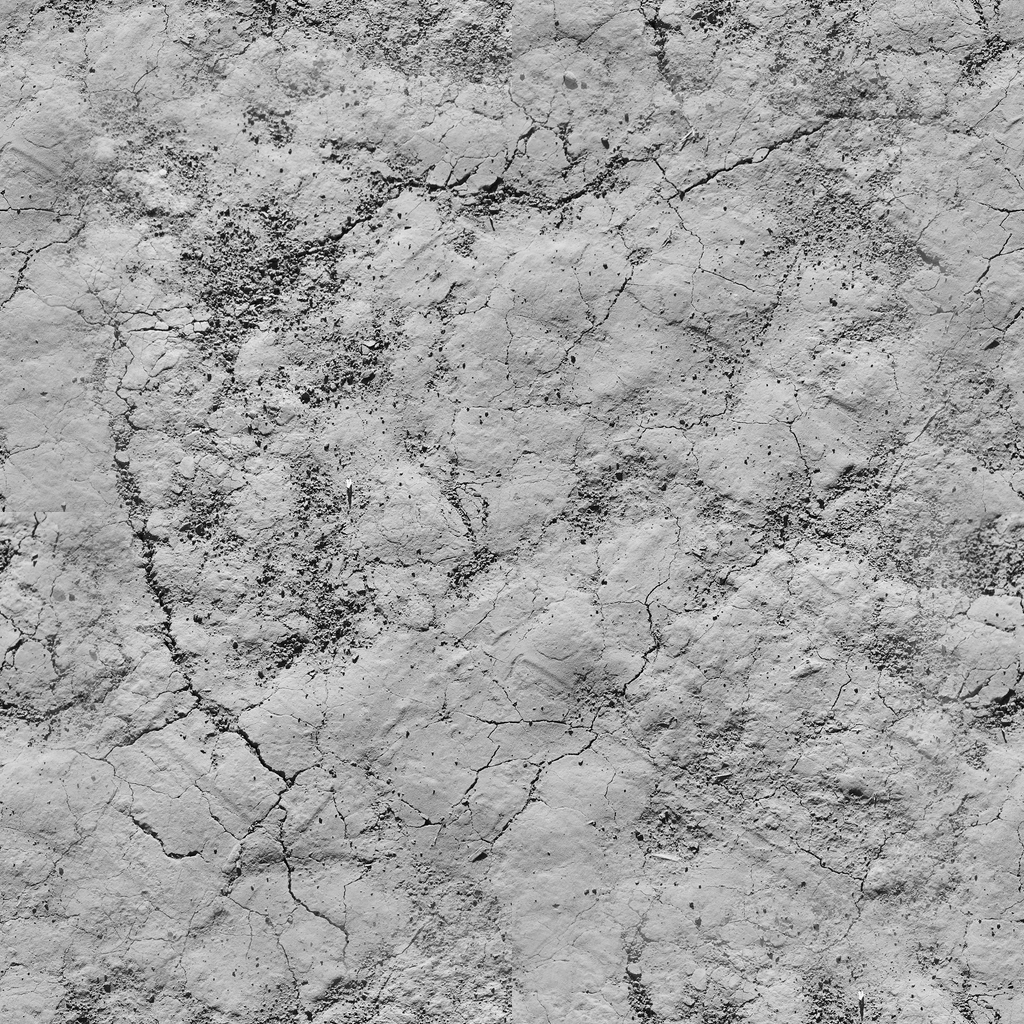
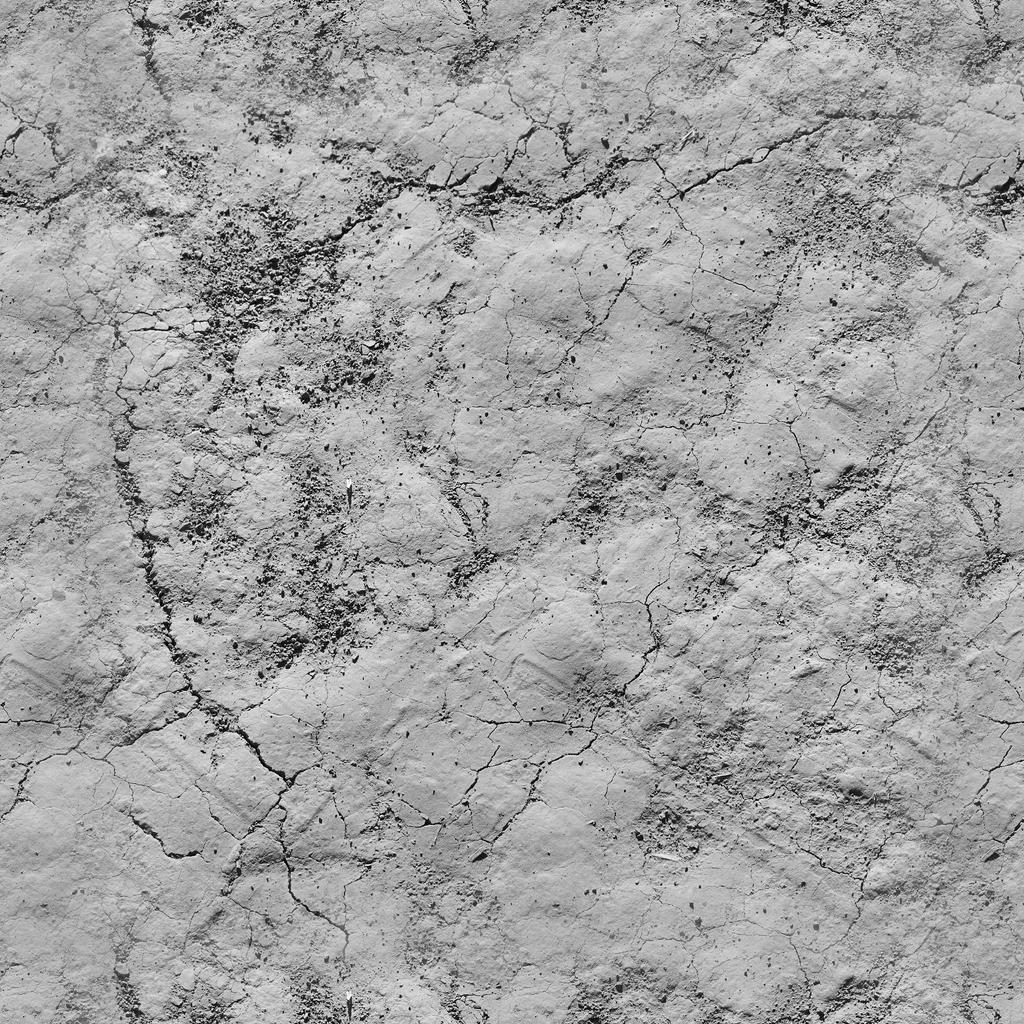
fix(look): bare earth review round 1, the cracks masked by the bake's colour, margins past the tile, a seamless tile

Changed region(s): [[0.0, 0.0, 1.0, 1.0]]

diff --git a/src/look/main.ts b/src/look/main.ts
@@ -533,6 +533,9 @@ if (params.has('bench')) {
   // ?bench=macro: the macro colour's arms whose shaders differ instead (with the detail layer)
   // ?bench=earth: the bare earth's surface up close off and on (earthOn, docs/plans/active/bare-earth.md)
   // ?bench=dof: the gameplay depth of field off and on (decision 0024)
+  // (each material set as it stands, no binder left behind: the texture's load sets 1 once, before the bench's warm-up
+  // on a local page)
+  const earthArm = (on: number) => () => { for (const m of mats.all) m.setFloat('uEarthOn', on) }
   const dofArm = (on: number) => () => { setDetail([]); if (S.dof !== on) { S.dof = on; post.build(); syncButtons() } }
   // ?trees=cards&bench=trees: the crowns' two arms, cards and the pack's (docs/plans/done/l7a-canopy-cards.md),
   // for the frame's cost only (read the frame interval): the shadow map is baked once, with the cards, so the pack arm keeps the cards' shadows
@@ -554,7 +557,7 @@ if (params.has('bench')) {
   // in every arm, so 'none' measures the materials' share of the combed meadow, not all of it
   const grassArm = (on: boolean, off: string[] = []) => () => { for (const m of mats.all) { m.setDefine('#define GRASS_FLOW', on); for (const k of ['STROKES', 'HUE', 'DENSE', 'BIG', 'LEAN']) m.setDefine(`#define GRASS_NO_${k}`, off.includes(k) || grassOff.includes(k.toLowerCase())) } }
   const arms = params.get('bench') === 'grass' && grassParam === 'flow' ? [{ name: 'flow', apply: grassArm(true) }, { name: 'none', apply: grassArm(false) }]
-    : params.get('bench') === 'grassparts' && grassParam === 'flow' ? [{ name: 'flow', apply: grassArm(true) }, { name: 'nostrokes', apply: grassArm(true, ['STROKES']) }, { name: 'nolean', apply: grassArm(true, ['LEAN']) }, { name: 'noclose', apply: grassArm(true, ['DENSE', 'BIG']) }, { name: 'nohue', apply: grassArm(true, ['HUE']) }, { name: 'alloff', apply: grassArm(true, ['STROKES', 'HUE', 'DENSE', 'BIG', 'LEAN']) }, { name: 'none', apply: grassArm(false) }] : params.get('bench') === 'meadow' && meadow ? [{ name: 'meadow', apply: () => meadow.setOn(true) }, { name: 'none', apply: () => meadow.setOn(false) }] : params.get('bench') === 'volume' ? [{ name: 'volume', apply: () => volume(true) }, { name: 'l7a', apply: () => volume(false) }] : params.get('bench') === 'trees' && show ? [{ name: 'cards', apply: () => show(true) }, { name: 'pack', apply: () => show(false) }] : params.get('bench') === 'macro' ? SHADER_ARMS.map(a => ({ name: a, apply: () => { setDetail([]); return macro.setArm(a) } })) : params.get('bench') === 'earth' ? [{ name: 'earth', apply: () => mats.bindAll(m => m.setFloat('uEarthOn', 1)) }, { name: 'noearth', apply: () => mats.bindAll(m => m.setFloat('uEarthOn', 0)) }]: params.get('bench') === 'dof' ? [{ name: 'nodof', apply: dofArm(0) }, { name: 'dof', apply: dofArm(1) }] : [{ name: 'l2', apply: () => setDetail([]) }, { name: 'l0', apply: () => setDetail(['DETAIL_L0']) }]
+    : params.get('bench') === 'grassparts' && grassParam === 'flow' ? [{ name: 'flow', apply: grassArm(true) }, { name: 'nostrokes', apply: grassArm(true, ['STROKES']) }, { name: 'nolean', apply: grassArm(true, ['LEAN']) }, { name: 'noclose', apply: grassArm(true, ['DENSE', 'BIG']) }, { name: 'nohue', apply: grassArm(true, ['HUE']) }, { name: 'alloff', apply: grassArm(true, ['STROKES', 'HUE', 'DENSE', 'BIG', 'LEAN']) }, { name: 'none', apply: grassArm(false) }] : params.get('bench') === 'meadow' && meadow ? [{ name: 'meadow', apply: () => meadow.setOn(true) }, { name: 'none', apply: () => meadow.setOn(false) }] : params.get('bench') === 'volume' ? [{ name: 'volume', apply: () => volume(true) }, { name: 'l7a', apply: () => volume(false) }] : params.get('bench') === 'trees' && show ? [{ name: 'cards', apply: () => show(true) }, { name: 'pack', apply: () => show(false) }] : params.get('bench') === 'macro' ? SHADER_ARMS.map(a => ({ name: a, apply: () => { setDetail([]); return macro.setArm(a) } })) : params.get('bench') === 'earth' ? [{ name: 'earth', apply: earthArm(1) }, { name: 'noearth', apply: earthArm(0) }]: params.get('bench') === 'dof' ? [{ name: 'nodof', apply: dofArm(0) }, { name: 'dof', apply: dofArm(1) }] : [{ name: 'l2', apply: () => setDetail([]) }, { name: 'l0', apply: () => setDetail(['DETAIL_L0']) }]
   // ?benchat=<x>,<z>: the cameras orbit that point instead of the start (the forest bench: docs/plans/done/forest-bench.md)
   // inside the play area: the camera's focus is clamped to it every frame (src/look/post.ts)
   const at = params.get('benchat')?.split(',').map(p => p.trim() === '' ? NaN : Number(p))

diff --git a/tools/earth-texture.py b/tools/earth-texture.py
@@ -5,8 +5,10 @@
 #   python3 tools/earth-texture.py [photo] [out] [size]
 #
 # The central square, in grey, the photo's broad light taken off (a blur of it divided out, so the tile's repeat shows
-# no bright corner), resized to size² (1024), then made seamless: the tile mixed with itself shifted by half, the
-# shifted copy where the tile's edges would meet. Prints the tile's mean (the shader keeps the earth's colour about it).
+# no bright corner), resized to size² (1024), then made seamless one axis at a time: the tile mixed with itself shifted
+# by half along x, the shifted copy at the left and right edges (whose own seam, in its middle, falls where the tile
+# itself is kept), then the same along y on that result (a mask that is the product of both edges' ramps would keep the
+# shifted copy's seam at the middle of each edge). Prints the tile's mean (the shader keeps the earth's colour about it).
 import os
 import sys
 from PIL import Image, ImageChops, ImageFilter, ImageStat
@@ -28,13 +30,17 @@ for y in range(N):
   for x in range(N):
     pf[x, y] = max(0, min(255, round(pi[x, y] * mean / max(pb[x, y], 1))))
 
-# seamless: the half-shifted copy where the tile's edges meet, the tile itself in its middle, a smooth mask between
-shifted = ImageChops.offset(flat, N // 2, N // 2)
-mask = Image.new('L', (N, N)); pm = mask.load(); B = N // 6   # the blend's width at each edge
+# seamless, one axis at a time: the half-shifted copy at the edges, the tile in the middle, a smooth ramp between
+B = N // 6   # the blend's width at each edge
 def ramp(d): t = min(1.0, d / B); return t * t * (3 - 2 * t)
-for y in range(N):
-  for x in range(N):
-    pm[x, y] = round(255 * ramp(min(x, N - 1 - x)) * ramp(min(y, N - 1 - y)))
-tile = Image.composite(flat, shifted, mask)
+def seamless(im, axis):
+  shifted = ImageChops.offset(im, N // 2 if axis == 0 else 0, N // 2 if axis == 1 else 0)
+  mask = Image.new('L', (N, N)); pm = mask.load()
+  for y in range(N):
+    for x in range(N):
+      d = x if axis == 0 else y
+      pm[x, y] = round(255 * ramp(min(d, N - 1 - d)))
+  return Image.composite(im, shifted, mask)
+tile = seamless(seamless(flat, 0), 1)
 tile.save(out, optimize=True)
 print(f'{out}: {N}x{N}, mean {ImageStat.Stat(tile).mean[0] / 255:.3f}')

diff --git a/docs/systems/look.md b/docs/systems/look.md
@@ -170,10 +170,16 @@ The plan: `docs/plans/active/l5-macro.md`; the design: `docs/proposals/prepainte
   wandering by the grain.
 - **The earth's surface up close** (`earthOn` in `macro.glsl`, after `dirtOn`): the owner's cracked earth
   (`data/ground-earth-v1.png`, made from the local reference by `tools/earth-texture.py`: the central square in grey,
-  the photo's broad light divided out, made seamless) multiplies bare ground's value about its mean (0.631), two reads
-  at 5 and 8 m a repeat at unrelated turns; fading out from a 6 to a 25 cm footprint (past it its marks are under a
-  pixel and the bake's soil alone shows). The growth first, one read shared with the under-layer (`meadowTexel`):
-  grass returns there; then the class, unwarped. `?bench=earth` benches it off and on.
+  the photo's broad light divided out, made seamless one axis at a time) multiplies bare loam's value about its mean
+  (0.632), two reads at 5 and 8 m a repeat at unrelated turns (the turned read's gradients turned with it), fading out
+  from a 6 to a 25 cm footprint. Its mask is the macro colour itself: the bake painted the soil where the ground is
+  bare, so a pixel takes the cracks as far as it reads as soil (its red over its green by 1.10 to 1.18: the grass, the
+  wheat, the stubble and the village stay under), at no read, its edge the bake's own. So all bare loam takes it: the
+  soil, the ploughed land, the roads and the tracks (their own paint over it near the camera); the dirt's marks
+  (`dirtOn`) hand over to it up close by the same weight. The bareness in the bake reads the growth at the cover's
+  warped point (four taps a metre apart), and beyond the meadow map (the tile's last 10 m and the far ring) the
+  margins from the cover by the grass's own rule (2.5 m round), so no seam where the map ends. Bare soil on a grassy
+  class keeps that class's snow (whole: trodden, a zone's breadth of snow showed the snow's pattern repeating). `?bench=earth` benches it off and on.
 - **The season turns what is green** (`groundSeason` in `shore.glsl`, every ground colour's season): a colour takes
   the whole turn as far as it is green, a quarter of it where green is no higher than red or blue (the pale road, the brown track, bare earth, stone, gravel,
   a cut bank, dry gold), for the autumn turns; winter mutes every colour as before. So a ploughed field or a bank does not melt into the autumn meadow, smoothly across every edge.

diff --git a/docs/plans/active/bare-earth.md b/docs/plans/active/bare-earth.md
@@ -36,7 +36,8 @@ darken it) plug in when the map engine lands. Today's cover grid has no material
    takes the same earth.
 3. **Its detail up close:** the earth texture multiplies the earth's value at the terrain's fragment (two reads at
    unrelated scales and offsets, a 5 m repeat, mipmapped), fading out as the pixel's footprint spans it.
-4. Seasons: the earth goes with the ground's season (the autumn turn, snow) as the bare class does.
+4. Seasons: the earth goes with the ground's season (the autumn turn) as the bare class does; under snow a grassy
+   class's soil keeps its class's whole snow (as trodden, a zone's breadth showed the snow's pattern repeating).
 
 Not in scope: the tracks', villages' and ploughed land's surface (they keep `data/ground-dirt-v1.png`); new cover
 classes or map edits.
@@ -75,3 +76,12 @@ on the earth's pixels only, behind the same footprint fade as the dirt (`dirtOn`
   every grassy class's edge with another class) at the summer cameras; winter identical (the snow covers the soil).
   The margins end with the meadow map at the tile's edge (beyond it the growth counts as whole: meadowGrowth).
 - `npm test`: 265 tests pass.
+- **Review round 1** (10 findings), fixed: the cracks' mask is now the bake's own colour (the live mask's unwarped,
+  one-tap edge disagreed with the bake's by up to 1.5 m: cracks on green, a 2 m staircase); the margins beyond the
+  meadow map from the cover (they ended on the tile's square); the tile seamless one axis at a time (a cut at each
+  edge's middle); the bare class's dirt past the cracks (mid zooms had no marks); bare soil held snow as the bare class (reverted: the goldens showed the snow's own pattern repeating in rows over a
+  formation zone's breadth; the soil on a grassy class keeps its class's whole snow, scope 4 so amended); the turned read's gradients; the bench arm without binders; `bareOf` takes macro's warp.
+- **The cost after round 1** (`?bench=earth`, paired, GPU frame p50; the machine shared, load 16 to 19): close +0.2,
+  default +0.1, wide 0.0 to +0.1 ms; the frame within 0.2 ms. Inside the +0.3 ms acceptance. (Before, with the
+  growth and class read on every pixel: up to +1.0 ms; a mask from the warped class on soil-coloured pixels: +0.6 to
+  +1.0.)
